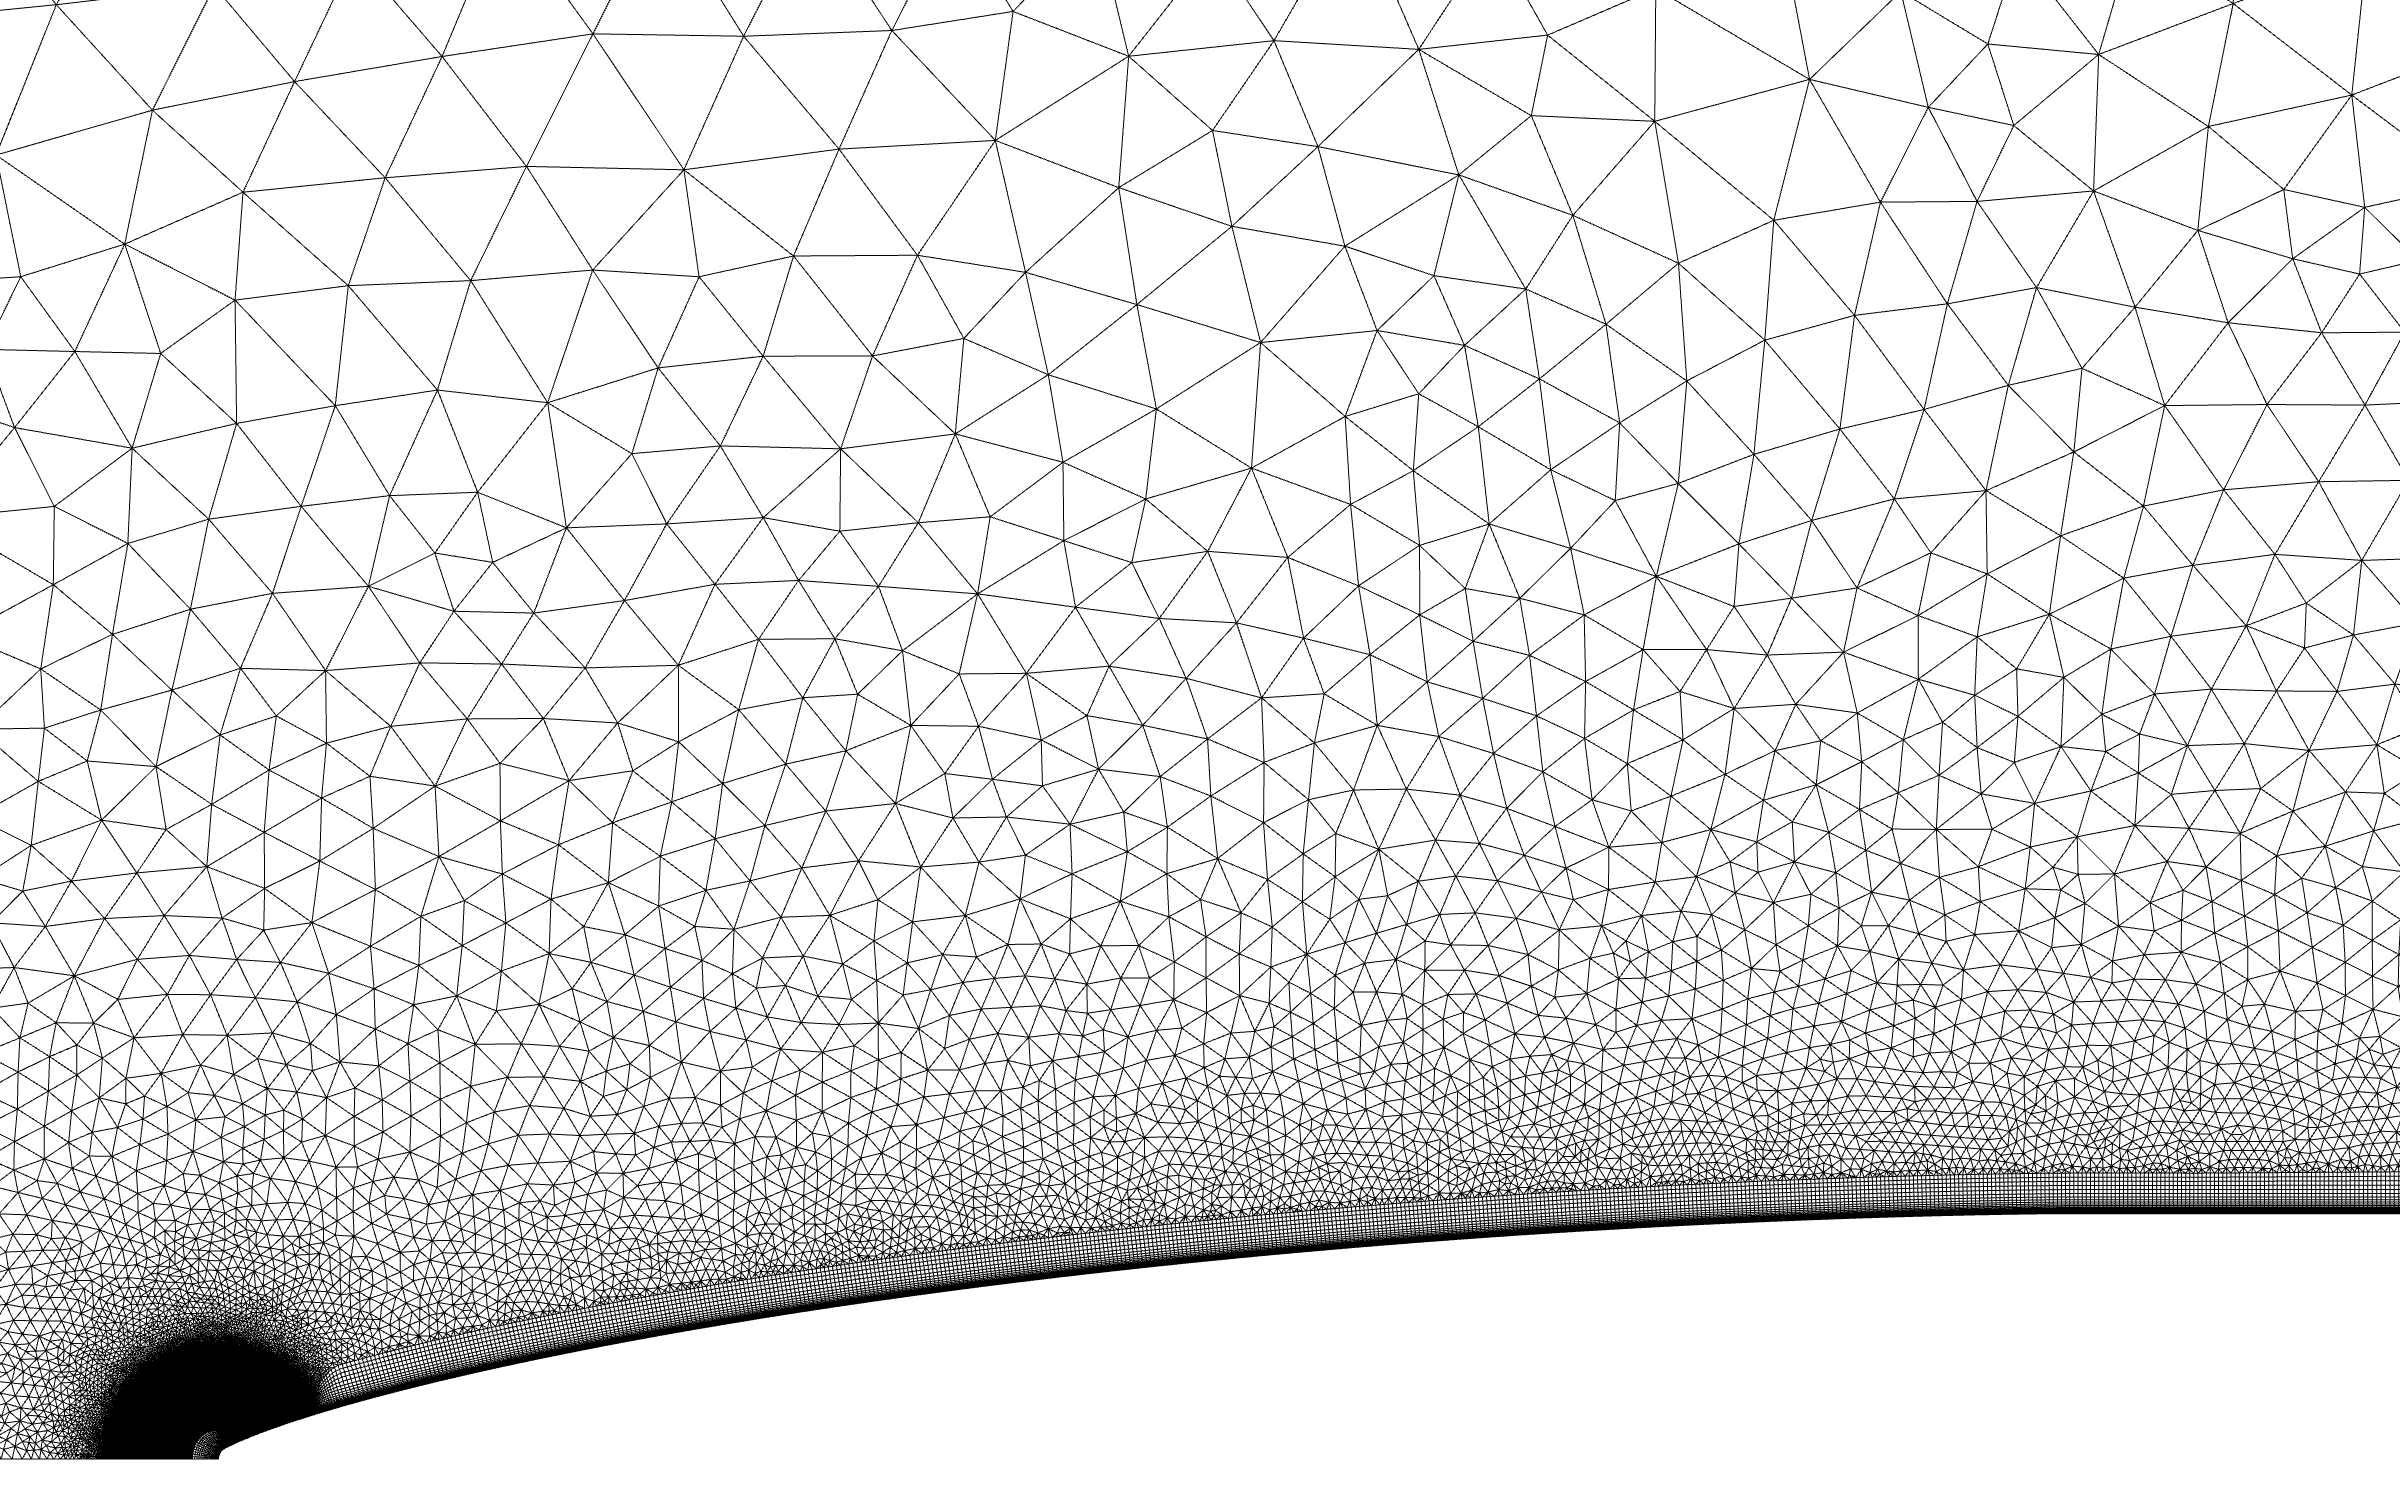
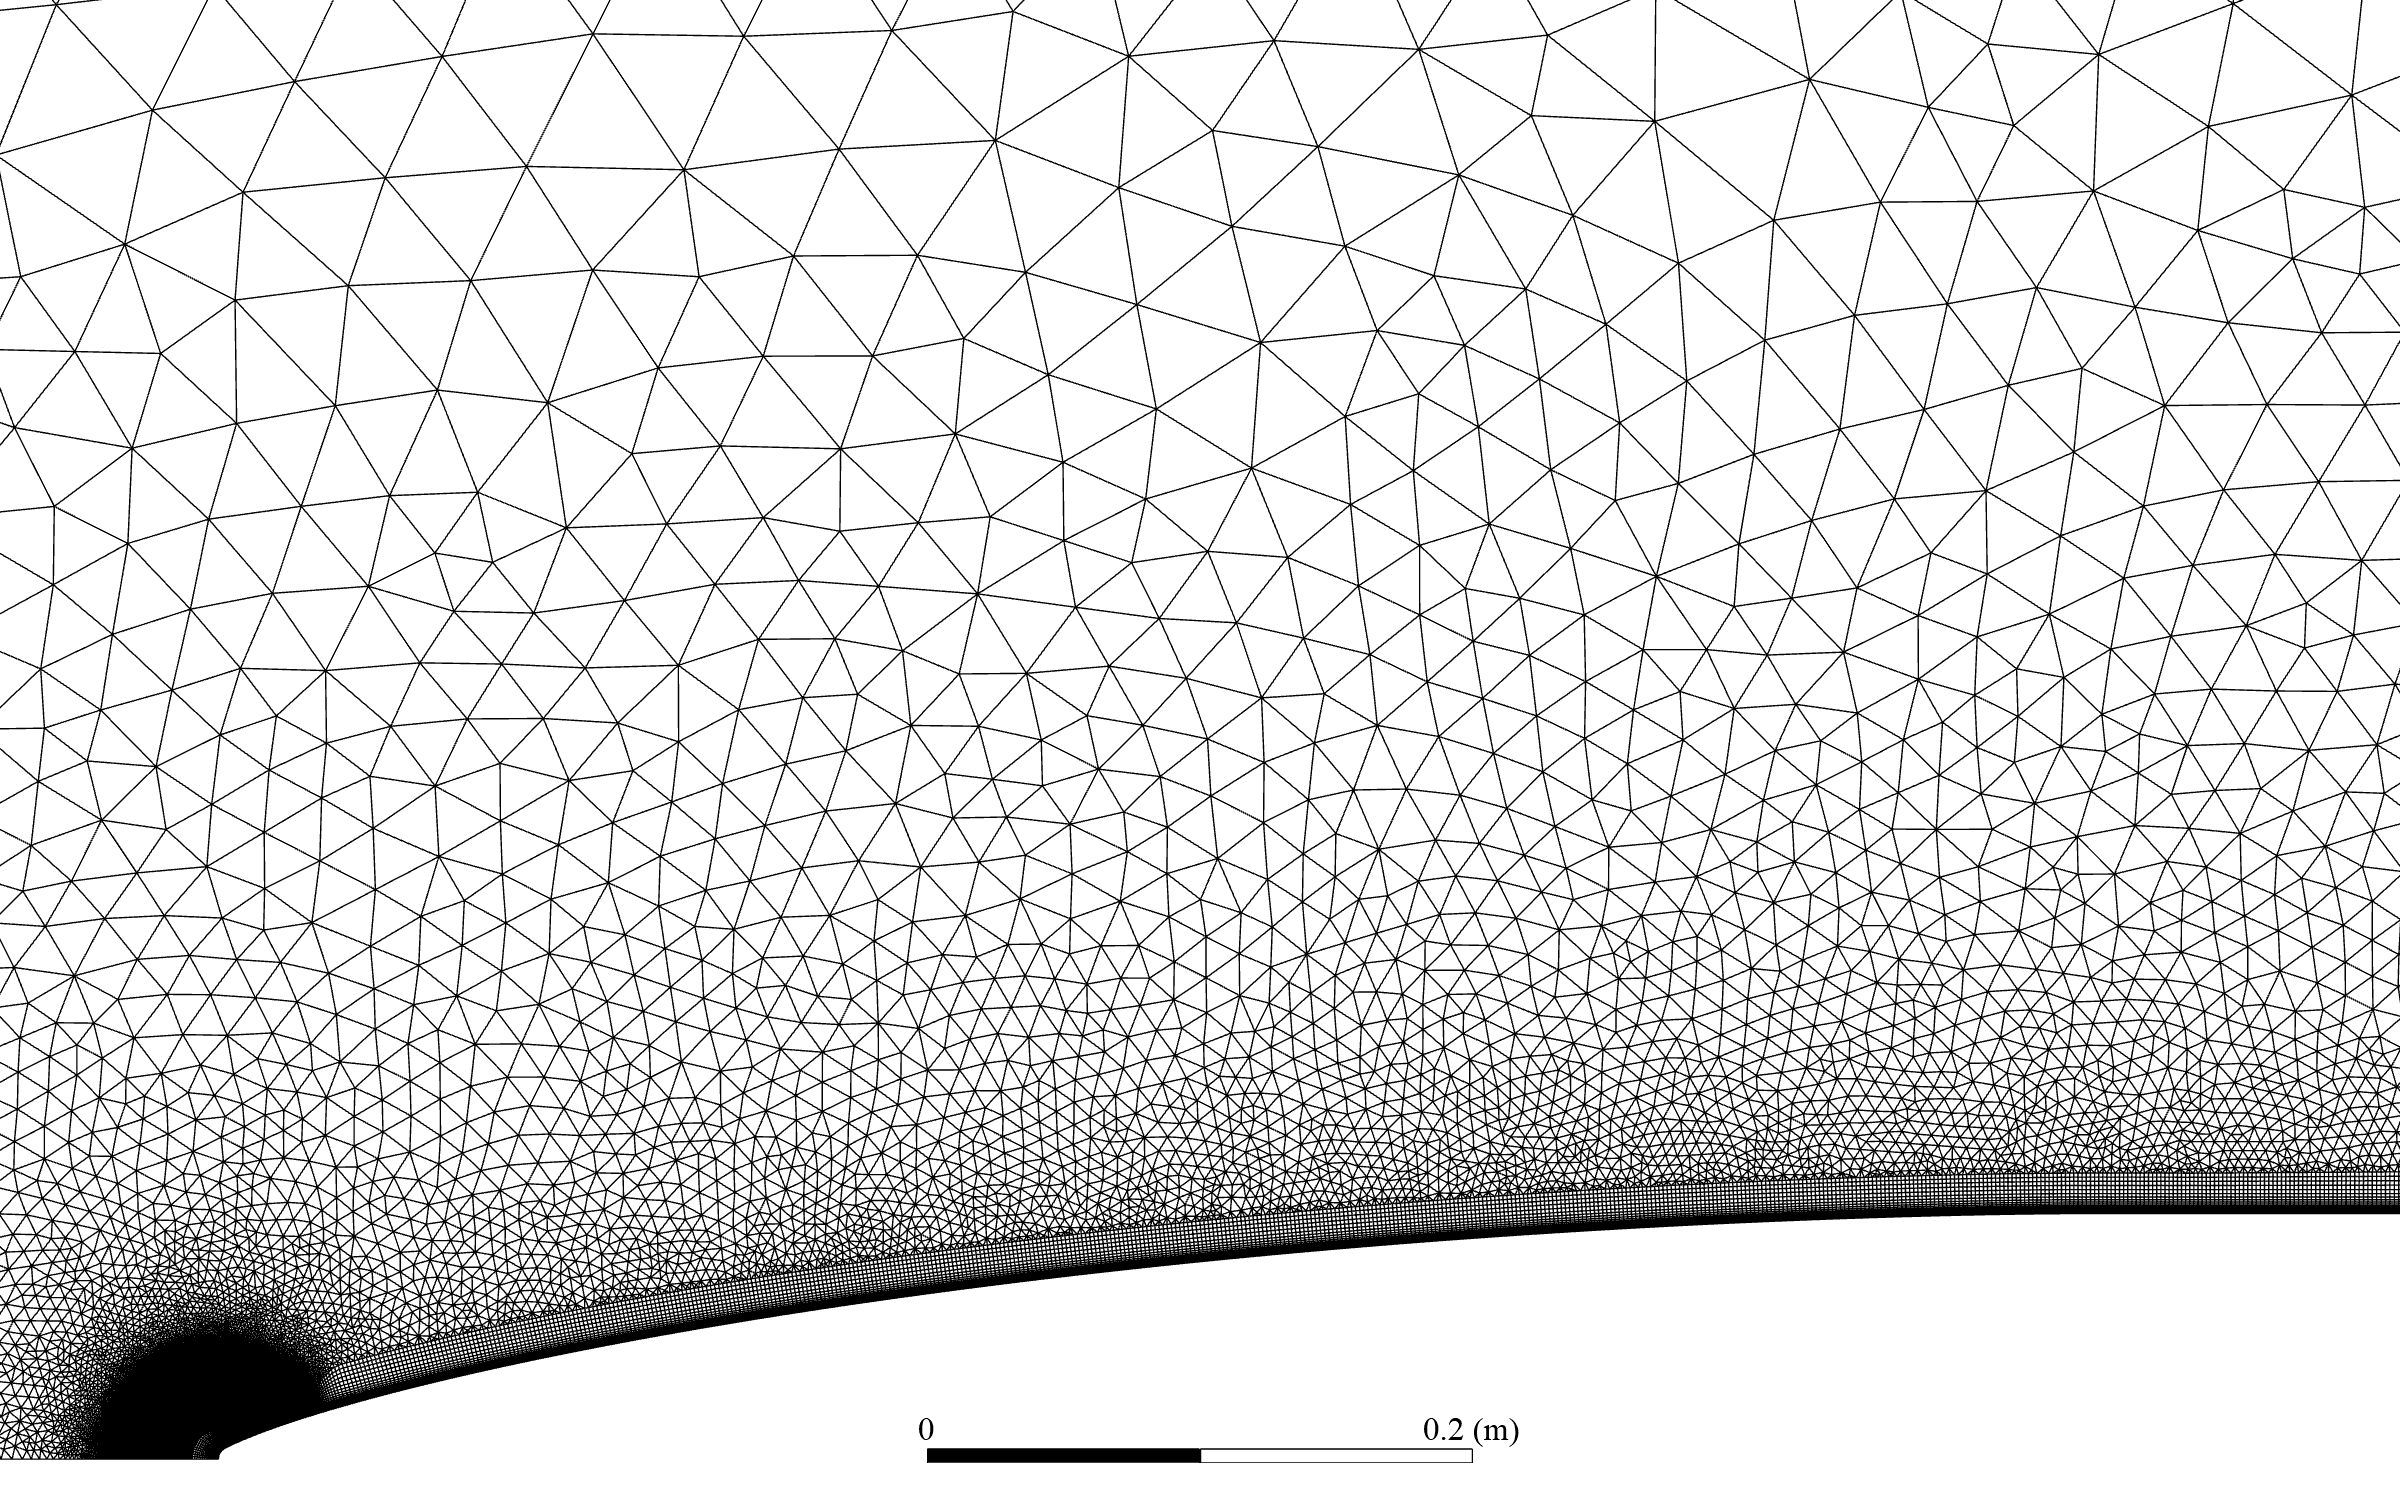
ME474: scale bars on the mesh pictures, mesh study in C_D units
- Mesh pictures: Fluent's ruler drawn black (foreground colour black), the
  tip and 40 D domain views shifted so the bar sits on white below the axis.
- fluent_meshstudy_M0.95: C_D itself on a 0.0312-0.0328 axis instead of
  C_D x 1000.
- XY titles stay Fluent's function names: Fluent cannot hide them, and a
  custom field function name with spaces breaks Fluent.
- PLAN.md section 10 and REPORT_PROMPT.md updated to match.

diff --git a/ME474/fluent_figs_study.py b/ME474/fluent_figs_study.py
@@ -9,13 +9,14 @@ files in figures/xy/. About 5 minutes.
 geometry  fluent_geometry_profiles   r(x) of both noses and couplers (CFD/geometry_720), shoulders and x = 720 mm
           fluent_geometry_tip        the first 30 mm: 4.5 mm tip sphere, where the profiles part
           fluent_geometry_domains    the 10 D, 20 D and 40 D domains and their boundary types (PLAN.md section 6)
-mesh      fluent_mesh_<view>_<mesh>  Fluent's own mesh display, no mirror; width of the view (= picture width):
-                                     domain 12 m (40 D) or 6.4 m (20 D); nose 0.88 m; tip 112 mm (the 40 mm tip
-                                     sphere); tipzoom 16 mm (inflation layers on the 4.5 mm tip); wall 48 mm at
-                                     x = 0.345 m (45 layers, 18.3 mm); shoulder 80 mm around x = 0.70 m; cone
-                                     tipzoom 0.4 mm (the sliver fan at the sharp tip). A and B medium, A coarse
-                                     and fine (nose, tip, wall) for the mesh study. Fluent's ruler is drawn light
-                                     grey on the white background, so it is left off: give the width in the caption.
+mesh      fluent_mesh_<view>_<mesh>  Fluent's own mesh display, no mirror, with Fluent's scale bar (ruler) at the
+                                     bottom centre; width of the view (= picture width): domain 12.8 m (40 D) or
+                                     6.4 m (20 D); nose 0.88 m; tip 112 mm (the 40 mm tip sphere); tipzoom 16 mm
+                                     (inflation layers on the 4.5 mm tip); wall 48 mm at x = 0.345 m (45 layers,
+                                     18.3 mm); shoulder 80 mm around x = 0.70 m; cone tipzoom 0.4 mm (the sliver fan
+                                     at the sharp tip). A and B medium, A coarse and fine (nose, tip, wall) for the
+                                     mesh study. The ruler takes the foreground colour: black here (Fluent's default
+                                     draws it light grey on the white background).
 studies   fluent_meshstudy_M0.95     C_D of the nose against h/h_fine (A and B), A's Richardson value and GCI band
           fluent_meshstudy_change    the four mesh studies as change from the fine mesh in %
           fluent_domainstudy_M0.95, fluent_domainstudy_M1.00, fluent_domainstudy_change   C_D against domain size L/D
@@ -26,7 +27,9 @@ cone      fluent_cp_cone_{burnout,M1.20}   wall Cp of the sharp cone against Tay
 Values: mesh study at M 0.95 = last iteration (runs/summary.csv, as PLAN.md 2c and 2e); at burnout = mean of the last
 500 iterations (PLAN.md 2d, 2f: the coarse meshes oscillate); Richardson extrapolation and GCI from gci.py. Domain study
 = runs/summary.csv. Fluent titles an XY plot "<y function> vs. <x function>", so the axis functions here are custom field
-functions whose names say what is plotted; their values are never used (the data come from the XY files).
+functions whose names say what is plotted; their values are never used (the data come from the XY files). Fluent
+cannot hide that title, and a function name with spaces breaks Fluent (the define command fails and Fluent hangs), so
+the names are hyphenated like Fluent's own ("pressure-coefficient").
 """
 import csv
 import math
@@ -166,19 +169,23 @@ def wall_r(shape, x):
 
 
 def views(shape):
-    """name -> camera (centre x, centre y, width, height), all 1.6 : 1 like the picture."""
+    """name -> camera (centre x, centre y, width, height), all 1.6 : 1 like the picture. Fluent draws the ruler at the
+    bottom centre, over the lowest 6 % of the picture: each view puts that inside the body or below the axis (white)."""
     r_wall = wall_r(shape, 0.345)
-    return {"nose": (0.36, 0.26, 0.88, 0.55), "tip": (0.0, 0.034, 0.112, 0.07), "tipzoom": (0.004, 0.005, 0.016, 0.01),
+    return {"nose": (0.36, 0.26, 0.88, 0.55), "tip": TIP, "tipzoom": (0.004, 0.005, 0.016, 0.01),
             "wall": (0.345, r_wall + 0.0095, 0.048, 0.03), "shoulder": (0.70, 0.10, 0.08, 0.05)}
 
 
+TIP = (0.0, 0.0305, 0.112, 0.07)  # the 40 mm tip sphere; the bottom 4.5 mm (the ruler) below the axis
+
+
 MESHES = [  # (run whose case holds the mesh, mesh name, views)
-    ("A_D40_M0.95", "A_D40", {"domain": (-2.34, 3.55, 12.0, 7.5)}),
+    ("A_D40_M0.95", "A_D40", {"domain": (-2.34, 3.45, 12.8, 8.0)}),  # bottom 0.55 m (the ruler) below the axis
     ("A_medium_M0.95", "A_medium", {"domain": (-0.54, 1.75, 6.4, 4.0), **views("A")}),
     ("B_medium_M0.95", "B_medium", views("B")),
     ("A_coarse_M0.95", "A_coarse", {k: v for k, v in views("A").items() if k in ("nose", "tip", "wall")}),
     ("A_fine_M0.95", "A_fine", {k: v for k, v in views("A").items() if k in ("nose", "tip", "wall")}),
-    ("cone_burnout", "cone", {"tip": (0.0, 0.034, 0.112, 0.07), "tipzoom": (0.0, 0.0001, 0.0004, 0.00025)}),
+    ("cone_burnout", "cone", {"tip": TIP, "tipzoom": (0.0, 0.00009, 0.0004, 0.00025)}),
 ]
 
 
@@ -188,6 +195,8 @@ def mesh_pictures(s):
         read_case(s, run)
         g = s.settings.results.graphics
         g.views.mirror_zones = []
+        g.colors.foreground = "black"  # the ruler's colour; mesh pictures come last, after the XY plots
+        g.windows.ruler = True
         if "mesh-all" not in g.mesh.get_object_names():
             g.mesh.create(name="mesh-all")
         m = g.mesh["mesh-all"]
@@ -229,19 +238,18 @@ def studies(s, summary):
         print(sh, pt, [(round(h, 3), round(c, 6)) for h, c in pts], "p", round(res["p"], 2), "f_ext",
               round(res["f_ext"], 6), "GCI fine %", round(res["gci_fine_pct"], 3), "oscillatory", res["oscillatory"])
 
-    # C_D at M 0.95 against h/h_fine, in units of 1e-3 (a fixed range 0.031-0.033 gets no middle label)
+    # C_D at M 0.95 against h/h_fine; 0.0312-0.0328 is a range Fluent labels at the ends and the middle
     (pa, ra), (pb, _) = ms[("A", "M0.95")], ms[("B", "M0.95")]
     f1, gfine = pa[0][1], ra["gci_fine_pct"] / 100
-    k = 1000
-    curves = [(xy("ms_A_M0.95", "A, LV-Haack", [(h, k * c) for h, c in pa]), *STYLE["A"], "(o)", 3),
-              (xy("ms_B_M0.95", "B, Von Karman (oscillatory: no GCI)", [(h, k * c) for h, c in pb]), *STYLE["B"], "[]", 3),
+    curves = [(xy("ms_A_M0.95", "A, LV-Haack", pa), *STYLE["A"], "(o)", 3),
+              (xy("ms_B_M0.95", "B, Von Karman (oscillatory: no GCI)", pb), *STYLE["B"], "[]", 3),
               (xy("ms_A_M0.95_rich", f"A, Richardson extrapolation to h = 0: {ra['f_ext']:.5f}",
-                  [(1.0, k * f1), (0.0, k * ra["f_ext"])]), STYLE["A"][0], "....", "<>", 2),
+                  [(1.0, f1), (0.0, ra["f_ext"])]), STYLE["A"][0], "....", "<>", 2),
               (xy("ms_A_M0.95_gci", f"A, GCI of the fine mesh: {100 * gfine:.2f} % either side",
-                  [(1.0, k * f1 * (1 - gfine)), (1.0, k * f1 * (1 + gfine))]), "red", "----", "", 3)]
+                  [(1.0, f1 * (1 - gfine)), (1.0, f1 * (1 + gfine))]), "red", "----", "", 3)]
     xy_files(s, "s-mesh-M0.95", curves, "relative-cell-size", "nose-drag-coefficient",
-             ("Relative cell size h/h_fine, h = (A/N)^1/2", "Cd of the nose (wall_nose) x 1000, M 0.95"),
-             ((0.0, 2.0), (31.0, 33.0)), (1, 1), "fluent_meshstudy_M0.95.png")
+             ("Relative cell size h/h_fine, h = (A/N)^1/2", "Cd of the nose (wall_nose), M 0.95"),
+             ((0.0, 2.0), (0.0312, 0.0328)), (1, 4), "fluent_meshstudy_M0.95.png")
 
     # all four as change from the fine mesh
     curves = []

diff --git a/ME474/PLAN.md b/ME474/PLAN.md
@@ -625,13 +625,15 @@ CPython 3.10) and `python fluent_figs.py` (PyFluent; refuses to start while `run
   * Geometry: `fluent_geometry_profiles` (r(x) of A and B from `CFD/geometry_720`, shoulders at 679 / 700 mm, x = 720 mm),
     `fluent_geometry_tip` (first 35 mm at equal scales, the 4.5 mm tip sphere), `fluent_geometry_domains` (10 / 20 / 40 D
     outlines, outlet, axis, wall).
-  * Mesh, Fluent's own mesh display (no mirror; width of the view = picture width): `fluent_mesh_domain_A_D40` (12 m),
+  * Mesh, Fluent's own mesh display (no mirror) with Fluent's scale bar at the bottom centre (width of the view = picture
+    width): `fluent_mesh_domain_A_D40` (12.8 m),
     `fluent_mesh_domain_A_medium` (6.4 m), `fluent_mesh_nose_<mesh>` (0.88 m), `fluent_mesh_tip_<mesh>` (112 mm, the 40 mm
     tip sphere), `fluent_mesh_tipzoom_<mesh>` (16 mm, inflation layers on the tip), `fluent_mesh_wall_<mesh>` (48 mm at
     x = 0.345 m, the 45 layers and the step to the triangles), `fluent_mesh_shoulder_<mesh>` (80 mm); A and B medium,
     A coarse and fine (nose, tip, wall); `fluent_mesh_tip_cone`, `fluent_mesh_tipzoom_cone` (0.4 mm: the sliver fan at
-    the sharp tip, section 5). Fluent draws its ruler light grey on white, so it is off: give the view width in the caption.
-  * Mesh study: `fluent_meshstudy_M0.95` (C_D x 1000 of the nose against h/h_fine, A and B, A's Richardson value 0.03163
+    the sharp tip, section 5). The scale bar is Fluent's ruler drawn in the foreground colour, set to black (Fluent's
+    default draws it light grey on the white background).
+  * Mesh study: `fluent_meshstudy_M0.95` (C_D of the nose against h/h_fine, axis 0.0312-0.0328, A and B, A's Richardson value 0.03163
     and its GCI band 1.08 %: B lies inside it), `fluent_meshstudy_change` (all four studies as change from the fine mesh,
     with the Richardson values; burnout flat within 0.1 %).
   * Domain study: `fluent_domainstudy_M0.95`, `fluent_domainstudy_M1.00` (C_D of the nose against L/D = 10, 20, 40;
@@ -641,4 +643,6 @@ CPython 3.10) and `python fluent_figs.py` (PyFluent; refuses to start while `run
     x = 0.05-0.65 m; the zigzag from x = 0.29 m at M 1.20 shows), plus the six per-run figures of `cone_burnout` and
     `cone_M1.20` (conical shock in `fluent_mach_wide_cone_*`).
   * The XY plots take their title from Fluent's axis functions, so the study plots use custom field functions named
-    after the quantity (title e.g. "nose-drag-coefficient vs. relative-cell-size"); their values are not used.
+    after the quantity (title e.g. "nose-drag-coefficient vs. relative-cell-size", hyphenated like Fluent's own
+    "pressure-coefficient"); their values are not used. Fluent cannot hide the title, and a name with spaces breaks the
+    custom field function (tested 16 Nov: the define fails and Fluent hangs).

diff --git a/ME474/REPORT_PROMPT.md b/ME474/REPORT_PROMPT.md
@@ -89,13 +89,14 @@ No appendix about the Rocket Team project and none about the use of Claude or ot
     (10 / 20 / 40 D). The dimensions go in the caption or the text: the plots have no dimension lines.
   * Mesh: `fluent_mesh_domain_A_D40`, `fluent_mesh_nose_A_medium`, `fluent_mesh_tip_A_medium`,
     `fluent_mesh_tipzoom_A_medium`, `fluent_mesh_wall_A_medium`, `fluent_mesh_shoulder_A_medium` (and the same for
-    B_medium; A coarse and fine for the mesh study). They have no scale bar: give the width of the view in the caption
-    (PLAN.md section 10 lists it per view).
+    B_medium; A coarse and fine for the mesh study). Each has Fluent's scale bar at the bottom centre; PLAN.md
+    section 10 also lists the width of each view.
   * Convergence: `fluent_meshstudy_M0.95`, `fluent_meshstudy_change`, `fluent_domainstudy_M0.95`,
     `fluent_domainstudy_M1.00`, `fluent_domainstudy_change`; validation `fluent_cp_cone_burnout`, `fluent_cp_cone_M1.20`,
     `fluent_mach_wide_cone_burnout`; the sliver fan at the cone's sharp tip: `fluent_mesh_tipzoom_cone`.
-  * Fluent titles the study plots after custom field functions ("nose-drag-coefficient vs. relative-cell-size"):
-    the caption carries the real title.
+  * Every Fluent XY plot carries Fluent's own title, the plotted functions ("pressure-coefficient" on the Results
+    plots, "nose-drag-coefficient vs. relative-cell-size" on the study plots). Leave it; the caption says what the
+    figure shows, as for any figure.
 * If a figure you need is not there, put a `[FIGURE TODO: ...]` placeholder with what it must show, and list it for us.
 
 ## Writing rules
